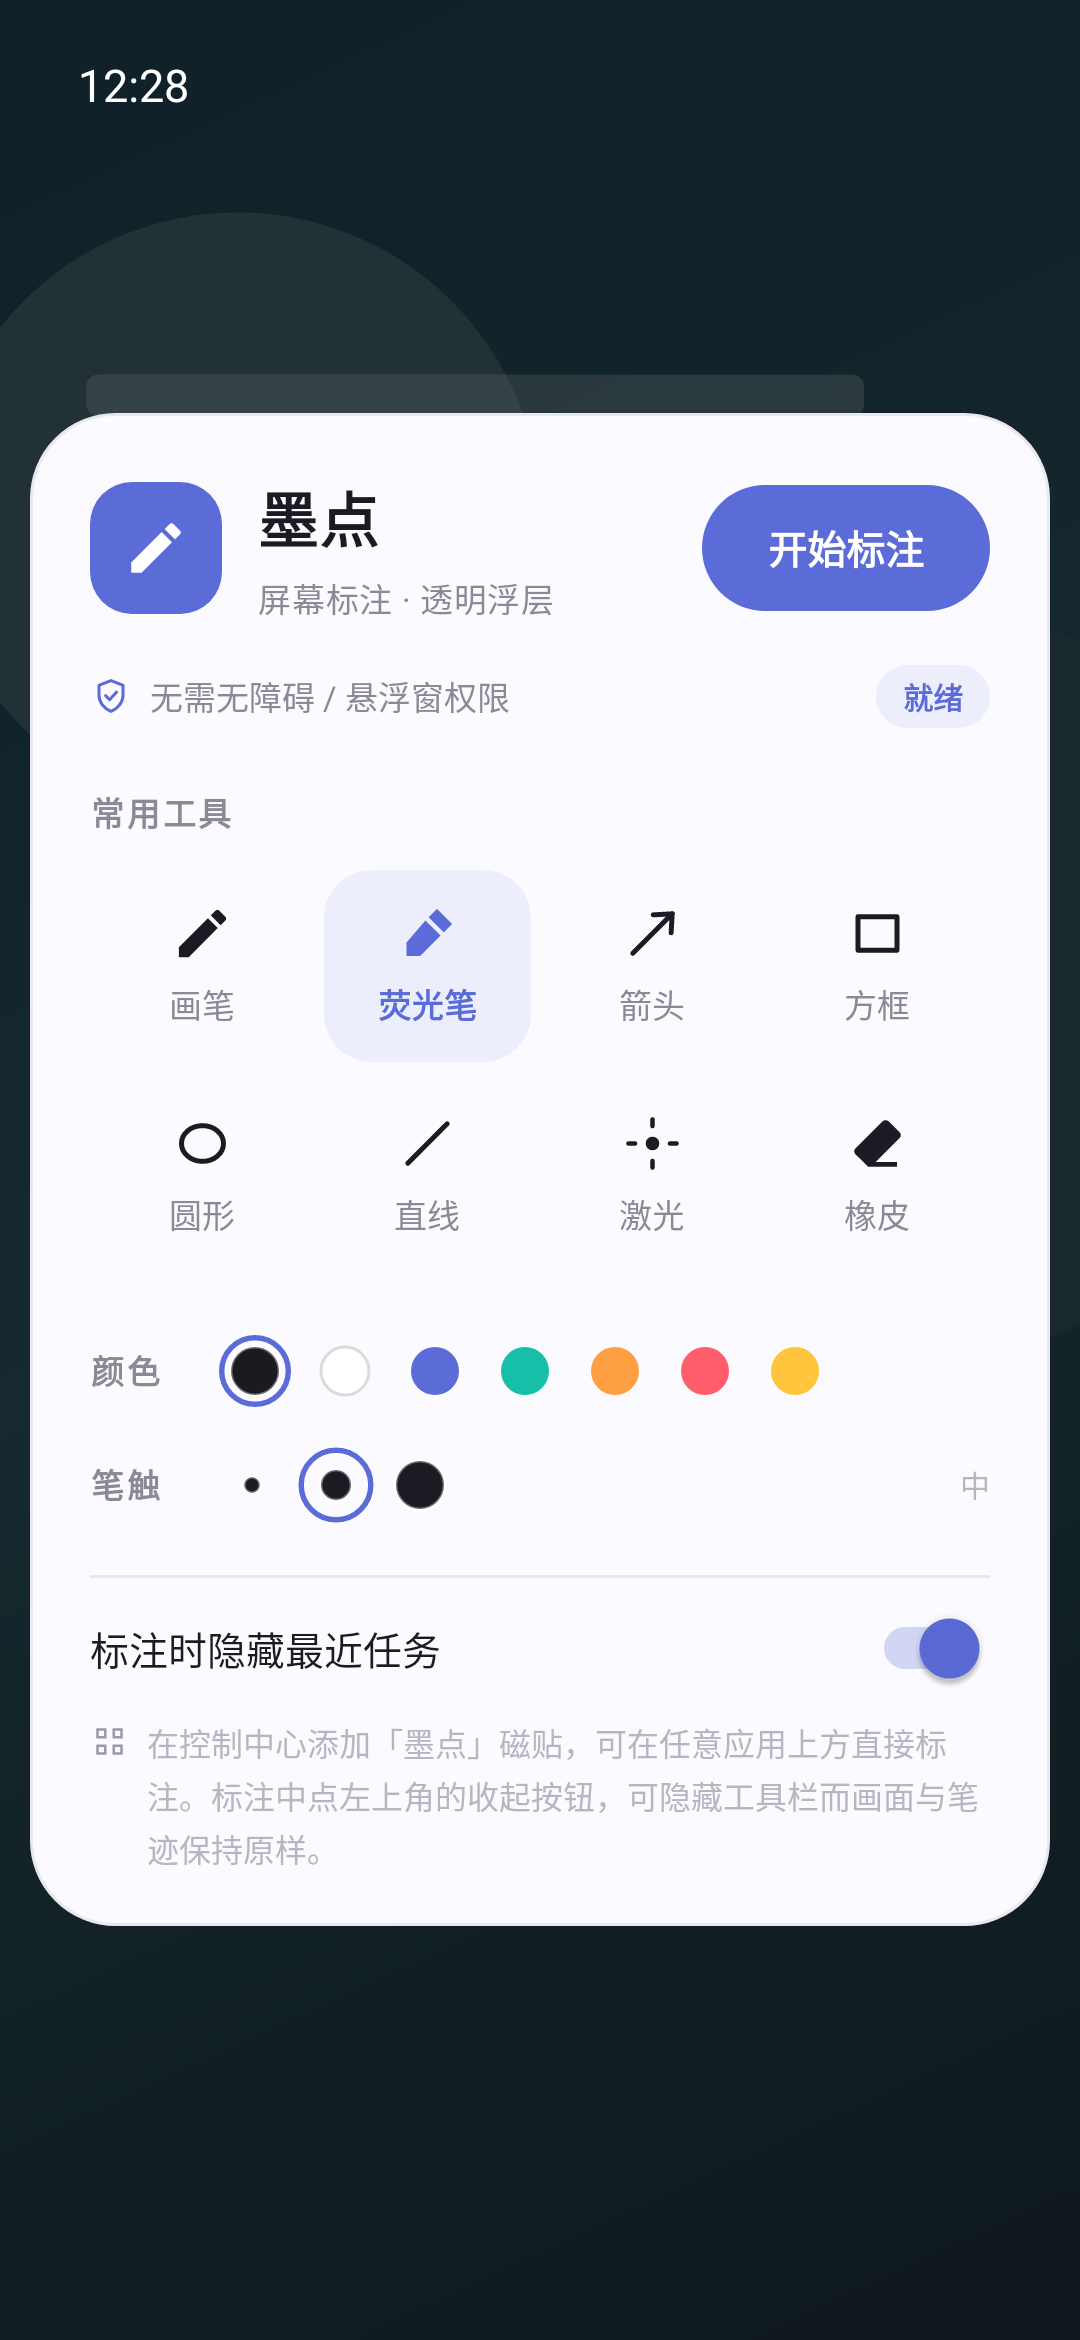
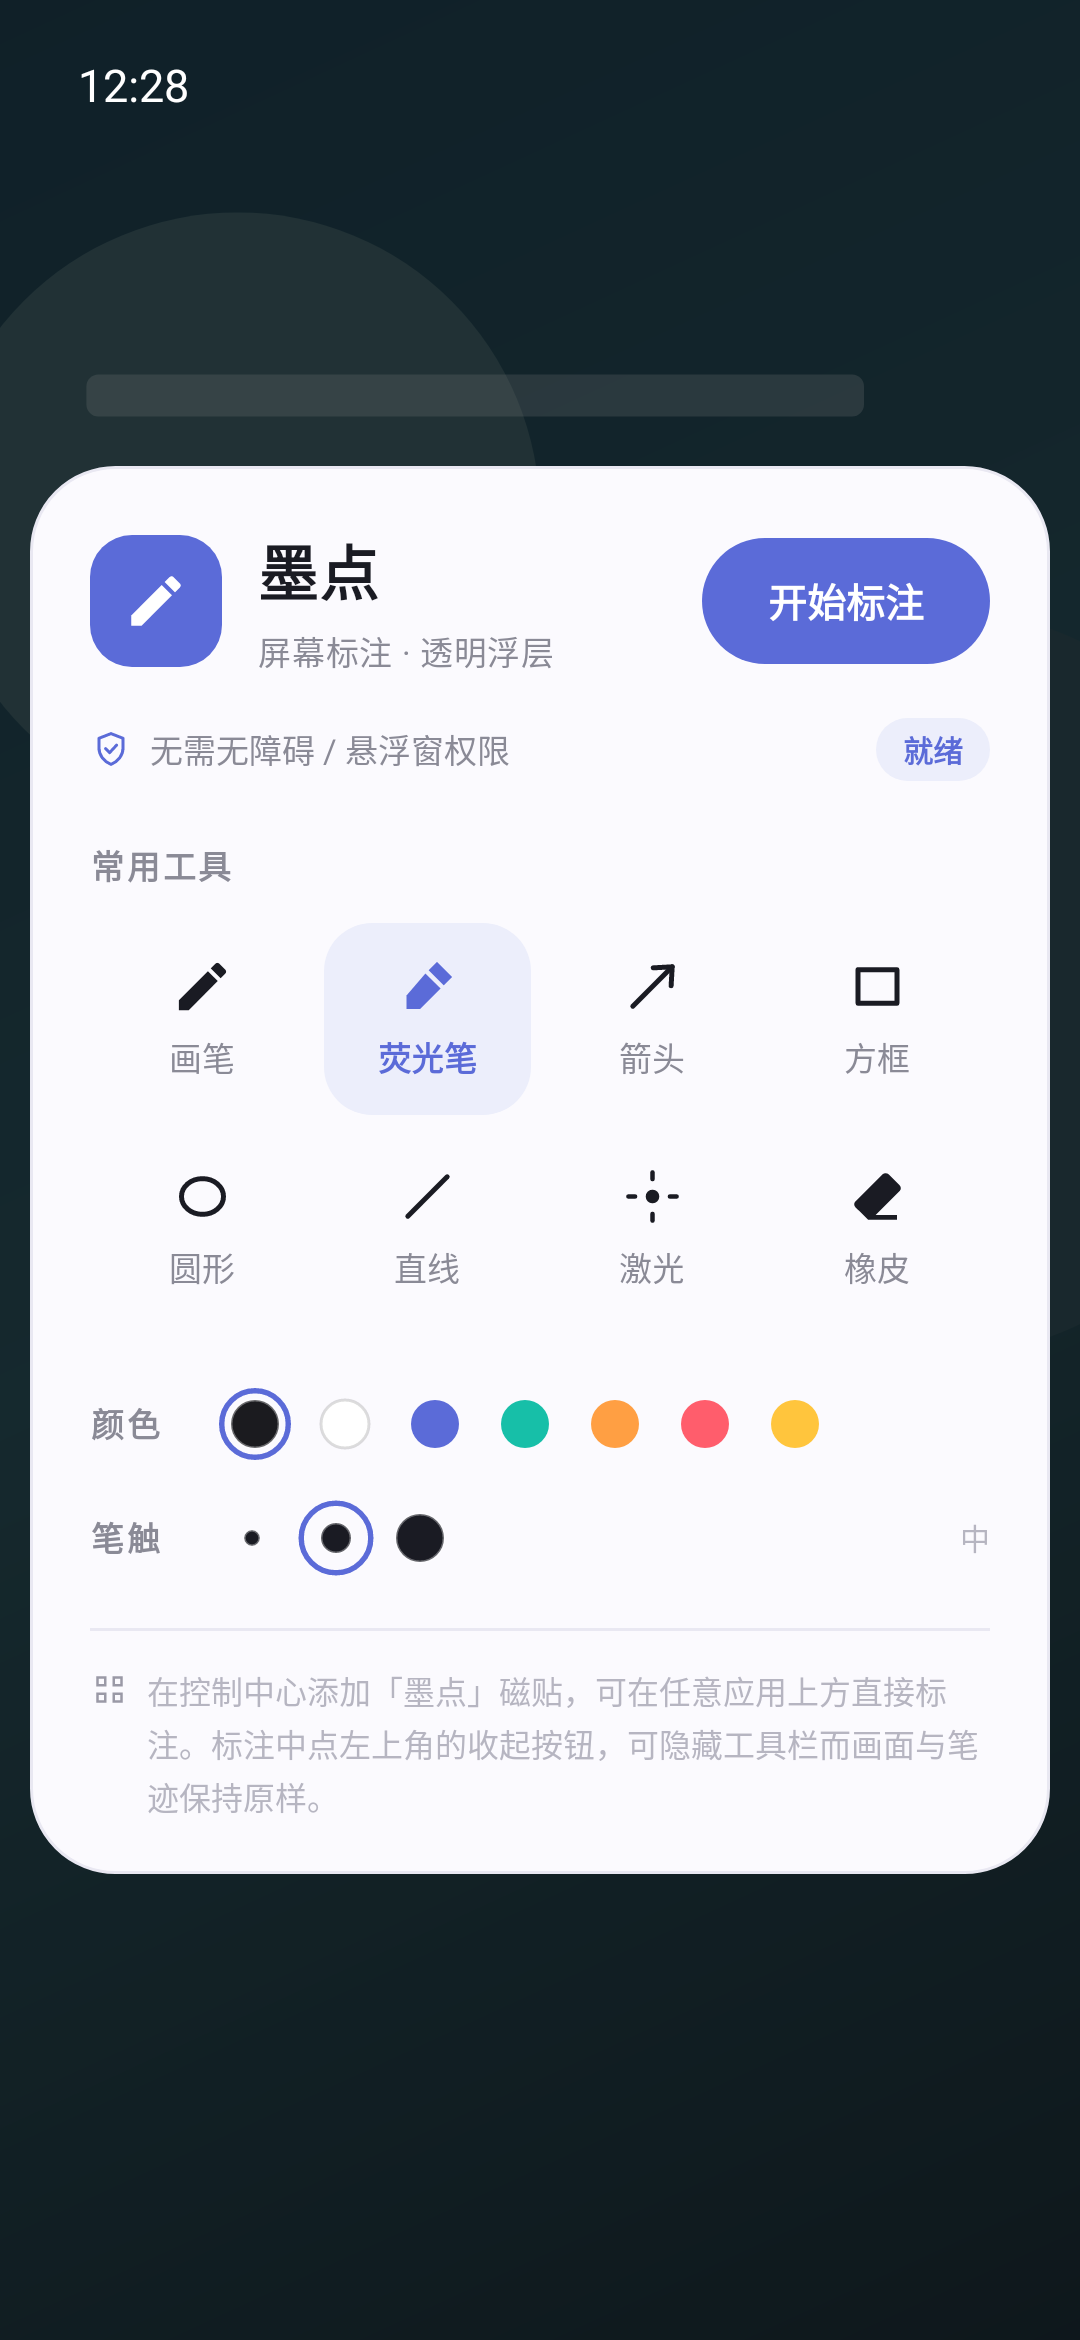
feat: 后台不留痕 + 切出即擦除（v1.2）
- 主面板与标注层都加上 excludeFromRecents，多任务列表里不再出现墨点；
  onCreate 里再用 AppTask.setExcludeFromRecents 做一层运行时保险
- 移除「隐藏最近任务」开关及相关偏好项，行为改为始终生效
- 标注层 onStop 时把笔迹连同撤销历史一起丢弃，切出即是一张白纸；
  系统权限弹窗（保存图片）期间不清，避免误删
- 新增 CanvasView.wipe()：清空内容且不写撤销栈
- 测试：新增"切出后清空画布与历史、回来仍可书写"用例，共 28 个

diff --git a/app/src/main/java/com/inkmark/app/AnnotateActivity.java b/app/src/main/java/com/inkmark/app/AnnotateActivity.java
@@ -22,7 +22,6 @@ import android.widget.TextView;
 import android.widget.Toast;
 
 import java.util.ArrayList;
-import java.util.List;
 
 /**
  * 标注层：全屏半透明的 Activity，界面外完全透明，下层应用清晰可见。
@@ -31,6 +30,9 @@ import java.util.List;
 public class AnnotateActivity extends Activity implements CanvasView.Listener {
 
     private static final int REQ_STORAGE = 7;
+
+    /** 系统权限弹窗期间 Activity 可能被 stop，此时不能清空画布。 */
+    private boolean awaitingPermission;
 
     private CanvasView canvas;
     private TextView chipText;
@@ -84,7 +86,18 @@ public class AnnotateActivity extends Activity implements CanvasView.Listener {
         applyInsets();
         updateChip();
         updateHistoryButtons(false, false);
-        applyHideFromRecents(Prefs.hideRecents(this));
+        ensureHiddenFromRecents();
+    }
+
+    /** 双保险：即便某些 ROM 忽略清单里的 excludeFromRecents，也把本应用任务移出多任务列表。 */
+    private void ensureHiddenFromRecents() {
+        try {
+            ActivityManager am = (ActivityManager) getSystemService(ACTIVITY_SERVICE);
+            for (ActivityManager.AppTask task : am.getAppTasks()) {
+                task.setExcludeFromRecents(true);
+            }
+        } catch (Throwable ignored) {
+        }
     }
 
     // ================= 收起 / 展开工具栏 =================
@@ -419,6 +432,7 @@ public class AnnotateActivity extends Activity implements CanvasView.Listener {
         if (Build.VERSION.SDK_INT <= Build.VERSION_CODES.P
                 && checkSelfPermission(Manifest.permission.WRITE_EXTERNAL_STORAGE)
                 != PackageManager.PERMISSION_GRANTED) {
+            awaitingPermission = true;
             requestPermissions(new String[]{Manifest.permission.WRITE_EXTERNAL_STORAGE}, REQ_STORAGE);
             return;
         }
@@ -439,6 +453,7 @@ public class AnnotateActivity extends Activity implements CanvasView.Listener {
     public void onRequestPermissionsResult(int requestCode, String[] permissions, int[] grantResults) {
         super.onRequestPermissionsResult(requestCode, permissions, grantResults);
         if (requestCode == REQ_STORAGE) {
+            awaitingPermission = false;
             if (grantResults.length > 0 && grantResults[0] == PackageManager.PERMISSION_GRANTED) {
                 doSave();
             } else {
@@ -449,14 +464,25 @@ public class AnnotateActivity extends Activity implements CanvasView.Listener {
 
     // ================= 生命周期 =================
 
-    private void applyHideFromRecents(boolean hide) {
-        try {
-            ActivityManager am = (ActivityManager) getSystemService(ACTIVITY_SERVICE);
-            List<ActivityManager.AppTask> tasks = am.getAppTasks();
-            if (tasks != null && !tasks.isEmpty()) {
-                tasks.get(0).setExcludeFromRecents(hide);
-            }
-        } catch (Exception ignored) {
+    /**
+     * 切出即擦除：回到桌面、切换应用、点「完成」都会走到 onStop，
+     * 此时把笔迹连同撤销历史一起丢弃，下次进入是一张干净的画布。
+     */
+    @Override
+    protected void onStop() {
+        super.onStop();
+        if (awaitingPermission) {
+            // 正在等系统权限弹窗（保存图片），回来还要继续画，不能清
+            return;
         }
+        wipeInk();
+    }
+
+    private void wipeInk() {
+        if (canvas == null) {
+            return;
+        }
+        canvas.wipe();
+        updateHistoryButtons(false, false);
     }
 }

diff --git a/app/src/main/java/com/inkmark/app/MainActivity.java b/app/src/main/java/com/inkmark/app/MainActivity.java
@@ -10,11 +10,9 @@ import android.view.ViewGroup;
 import android.view.Window;
 import android.widget.GridLayout;
 import android.widget.LinearLayout;
-import android.widget.Switch;
 import android.widget.TextView;
 
 import java.util.ArrayList;
-import java.util.List;
 
 /**
  * 主面板：和 ShizukuRunner 一样，用系统 Dialog 主题做成一张浮起来的卡片，
@@ -46,7 +44,7 @@ public class MainActivity extends Activity {
         setFinishOnTouchOutside(true);
 
         sizeWindow();
-        applyHideFromRecents(Prefs.hideRecents(this));
+        ensureHiddenFromRecents();
 
         buildToolGrid();
         buildColors();
@@ -163,13 +161,6 @@ public class MainActivity extends Activity {
 
     private void bindActions() {
         findViewById(R.id.btn_start).setOnClickListener(v -> startAnnotating());
-
-        Switch hide = findViewById(R.id.sw_hide);
-        hide.setChecked(Prefs.hideRecents(this));
-        hide.setOnCheckedChangeListener((buttonView, isChecked) -> {
-            Prefs.setHideRecents(this, isChecked);
-            applyHideFromRecents(isChecked);
-        });
     }
 
     private void startAnnotating() {
@@ -184,14 +175,14 @@ public class MainActivity extends Activity {
         overridePendingTransition(0, 0);
     }
 
-    private void applyHideFromRecents(boolean hide) {
+    /** 双保险：即便某些 ROM 忽略清单里的 excludeFromRecents，也把本应用任务移出多任务列表。 */
+    private void ensureHiddenFromRecents() {
         try {
             ActivityManager am = (ActivityManager) getSystemService(ACTIVITY_SERVICE);
-            List<ActivityManager.AppTask> tasks = am.getAppTasks();
-            if (tasks != null && !tasks.isEmpty()) {
-                tasks.get(0).setExcludeFromRecents(hide);
+            for (ActivityManager.AppTask task : am.getAppTasks()) {
+                task.setExcludeFromRecents(true);
             }
-        } catch (Exception ignored) {
+        } catch (Throwable ignored) {
         }
     }
 

diff --git a/app/src/test/java/com/inkmark/app/UiSmokeTest.java b/app/src/test/java/com/inkmark/app/UiSmokeTest.java
@@ -187,6 +187,33 @@ public class UiSmokeTest {
     }
 
     @Test
+    public void leavingAnnotateWipesInkAndHistory() throws Exception {
+        ActivityController<AnnotateActivity> controller =
+                Robolectric.buildActivity(AnnotateActivity.class).setup();
+        AnnotateActivity activity = controller.get();
+        CanvasView canvas = activity.findViewById(R.id.canvas);
+        layoutFullScreen(canvas);
+
+        dispatchStroke(canvas, new float[]{200, 320, 460, 600},
+                new float[]{700, 720, 820, 760});
+        assertTrue("先要有笔迹", canvas.hasInk());
+
+        // 切出应用（回桌面 / 切换应用 / 点完成都会走 pause + stop）
+        controller.pause().stop();
+
+        assertFalse("切出后笔迹必须清空", canvas.hasInk());
+        assertFalse("撤销历史也要清掉，不能撤回", canvas.undo());
+        assertFalse(canvas.redo());
+
+        // 再回来时是一张干净画布，且仍能正常书写
+        controller.start().resume();
+        layoutFullScreen(canvas);
+        dispatchStroke(canvas, new float[]{240, 360, 480},
+                new float[]{900, 940, 1000});
+        assertTrue("回来后应能继续书写", canvas.hasInk());
+    }
+
+    @Test
     public void tileStaysInactiveAsOneShotAction() throws Exception {
         android.service.quicksettings.TileService service =
                 Robolectric.buildService(InkTileService.class).create().get();

diff --git a/app/src/main/java/com/inkmark/app/Prefs.java b/app/src/main/java/com/inkmark/app/Prefs.java
@@ -9,7 +9,6 @@ public final class Prefs {
     private static final String KEY_TOOL = "tool";
     private static final String KEY_COLOR = "color";
     private static final String KEY_WIDTH = "width";
-    private static final String KEY_HIDE = "hide_recents";
 
     private Prefs() {
     }
@@ -40,14 +39,6 @@ public final class Prefs {
 
     public static void setWidthLevel(Context context, int level) {
         sp(context).edit().putInt(KEY_WIDTH, level).apply();
-    }
-
-    public static boolean hideRecents(Context context) {
-        return sp(context).getBoolean(KEY_HIDE, true);
-    }
-
-    public static void setHideRecents(Context context, boolean hide) {
-        sp(context).edit().putBoolean(KEY_HIDE, hide).apply();
     }
 
     /** 调色板：墨黑 / 白 / 蓝紫 / 青 / 橙 / 红 / 黄。 */

diff --git a/app/src/main/java/com/inkmark/app/CanvasView.java b/app/src/main/java/com/inkmark/app/CanvasView.java
@@ -141,6 +141,13 @@ public class CanvasView extends View {
         invalidate();
     }
 
+    /** 彻底丢弃全部笔迹与撤销历史，用于"切出即擦除"。 */
+    public void wipe() {
+        history.clear();
+        laser.clear();
+        invalidate();
+    }
+
     /** 导出透明背景的标注图层。 */
     public Bitmap exportBitmap() {
         int w = getWidth();
